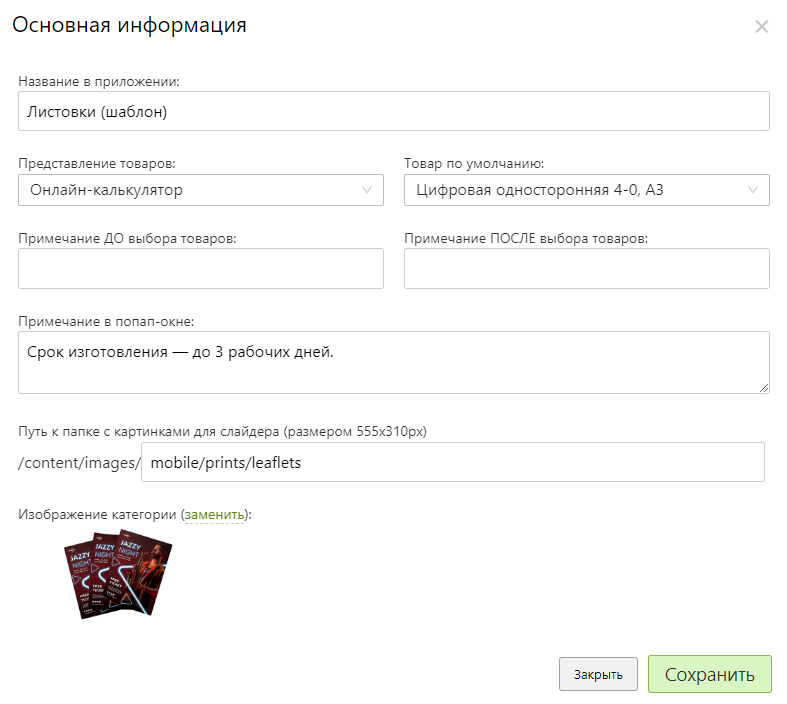
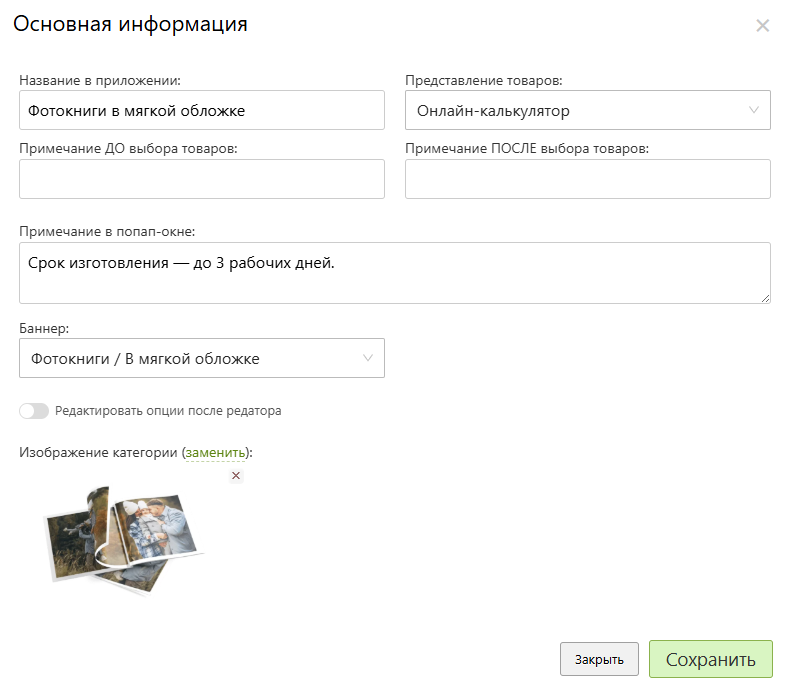
fix

diff --git a/docs/app/shop.md b/docs/app/shop.md
@@ -11,7 +11,8 @@ sidebar_position: 5
 * Более того, приложение может выступать в виде агрегатора сайтов. Например, каждый сайт может представлять собой отдельную локализацию приложения. В этом случае работа приложения начинается с экрана выбора сайта, который также можно сменить в личном кабинете.
 * Для каждого выбранного сайта приложения можно задать:
     + Название, которое выводится на экране выбора сайта.
-    + Страница "__О нас__", которая выводиться в личном кабинете.
+    + Страница "__О нас__", которая выводится в личном кабинете.
+    + Баннер, который выводится в верхней части экрана "__Магазин__".
     + Набор категорий продуктов из раздела "__Печать__" на сайте.
     + Набор способов доставки.
     + Набор способов оплаты.
@@ -21,11 +22,11 @@ sidebar_position: 5
 * Для каждой категории в свою очередь можно:
     + Задать название, выводящееся на экране списка категорий.
     + Настроить представление товаров в виде списка товаров / калькулятора с опциями.
-    + Для калькулятора с опциями указать товар по умолчанию.
     + Создать примечания До и После выбора товаров на экране категории.
     + Создать примечания в попап-окне.
-    + Указать путь к папке c изображениями для слайдера.
-    + Выбрать изображение для категории.
+    + Выбрать баннер, выводящийся на экране категории.
+    + Для категорий с редактором дизайнов / товаров задать редактирование опций после редактора.
+    + Задать изображение для категории.
 
 ![](../_media/app/websites-category.png ':size=70%')
 
